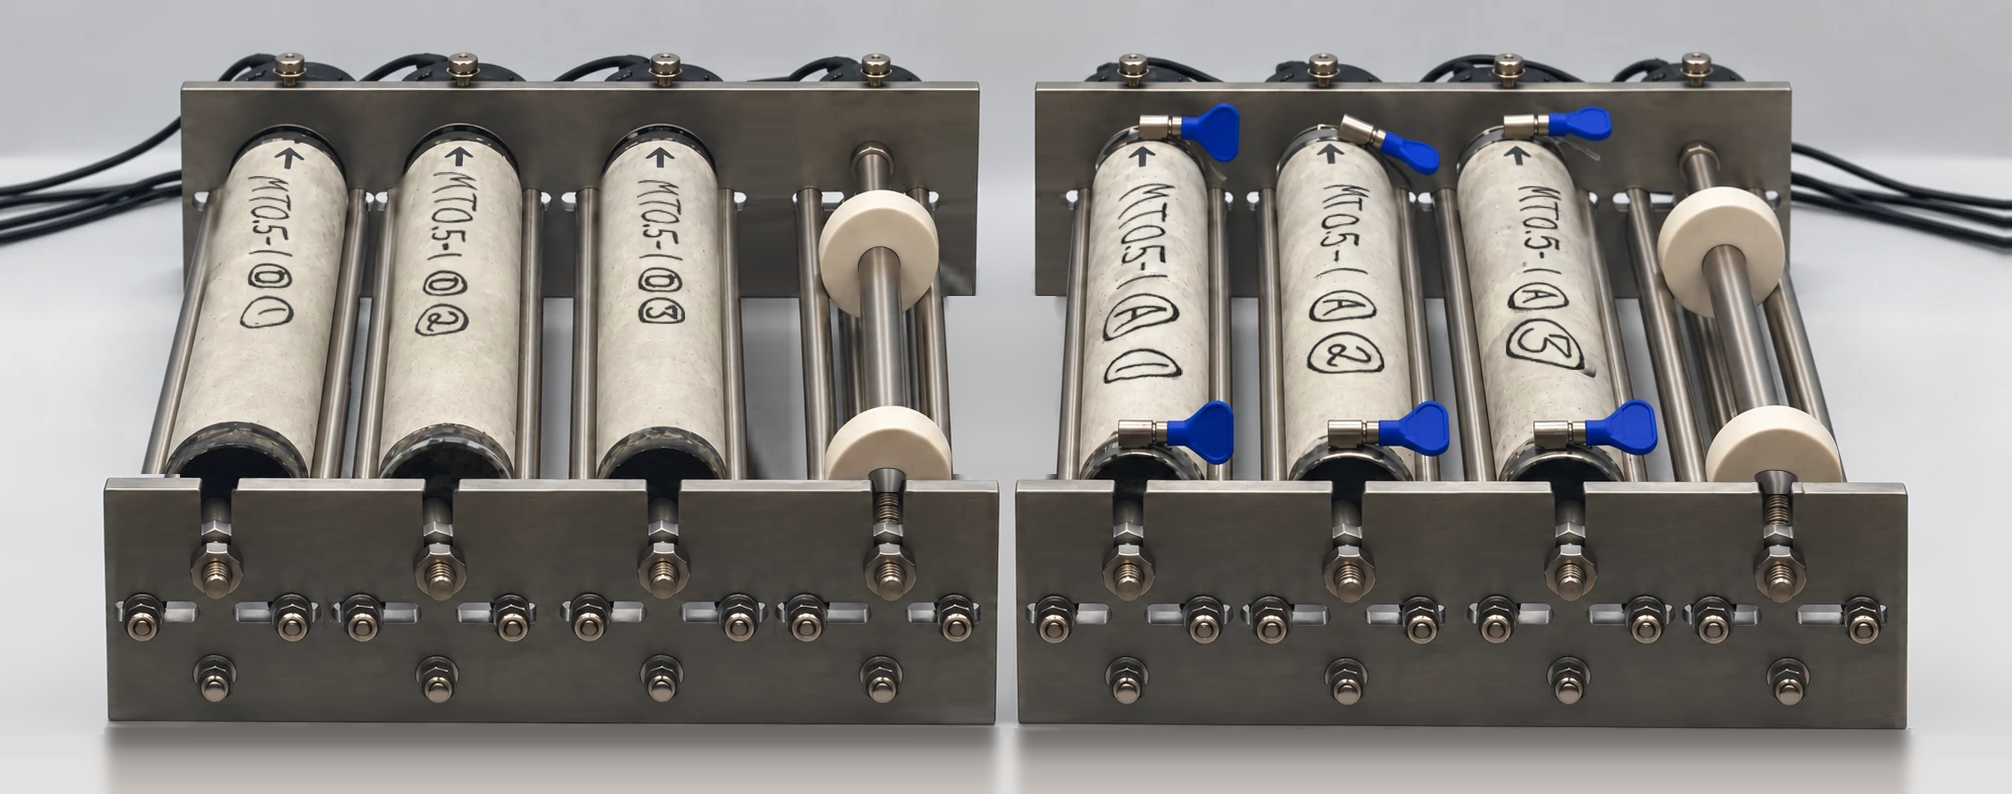
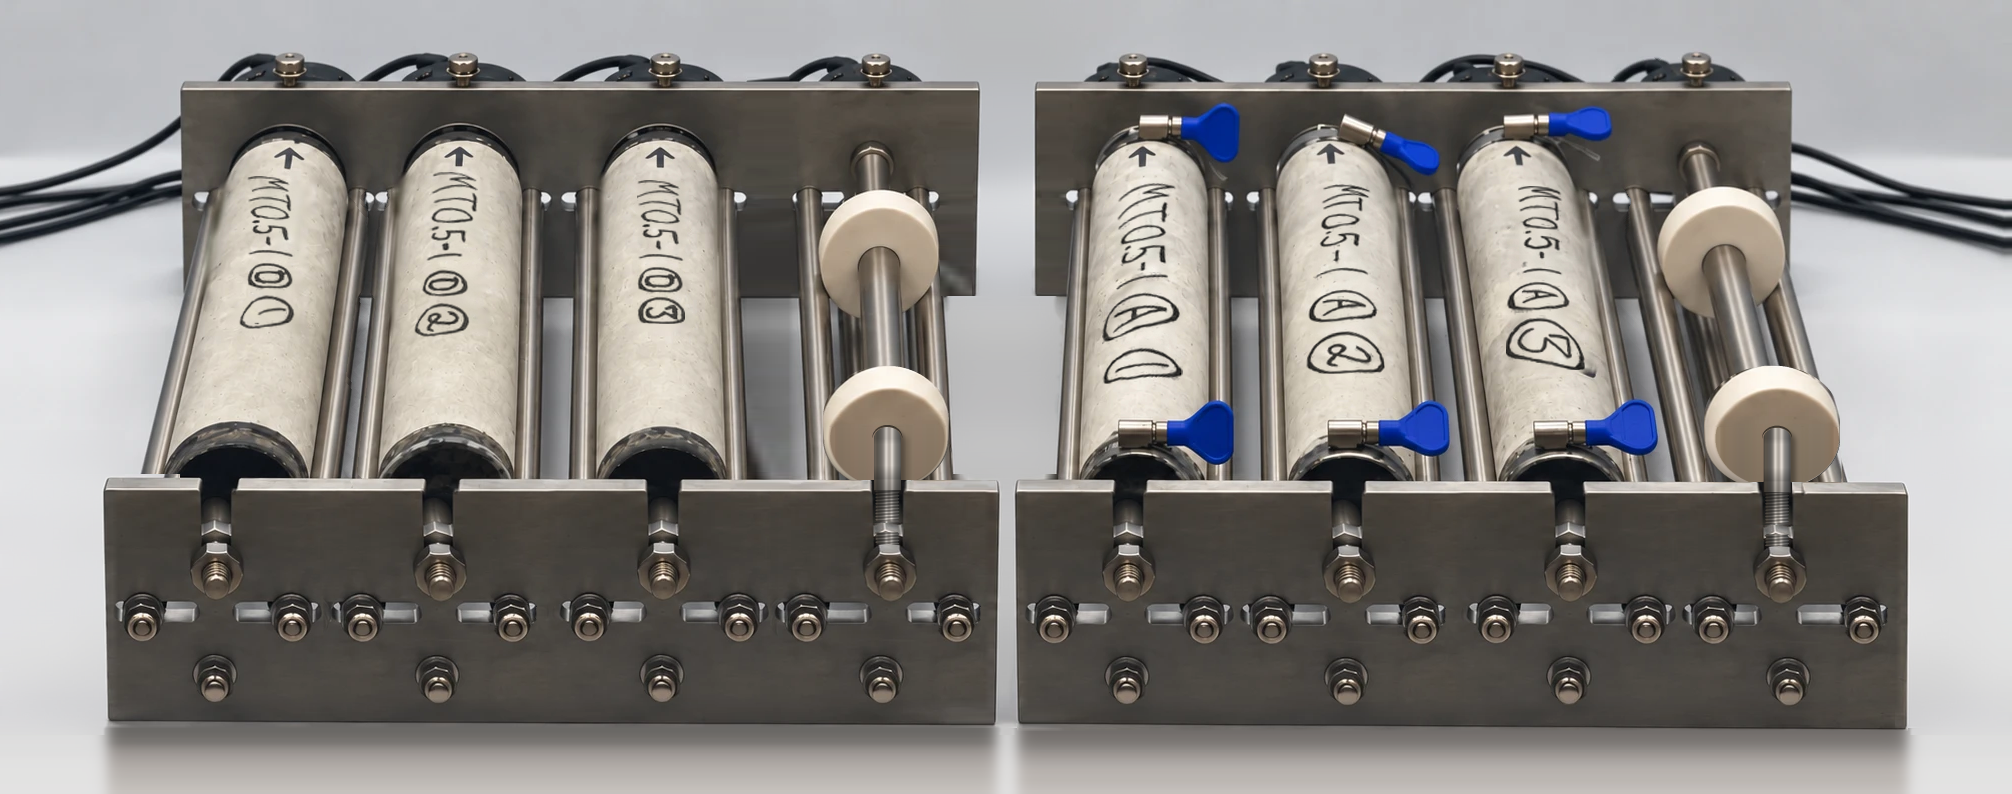
Spacer bay: closer to the rig photos
Roller lifted off the plate so the invar rod is seen coming straight out of
its bore, at constant width, across the plate-top bevel into a threaded stud
(helical threads on the rod's own shading) through the notch, the hex nut,
more thread, and the lock nut. Replaces the tapered cone.

Claude-Session: https://claude.ai/code/session_017fwkAQjt5JYwLzDNEhCw96

Changed region(s): [[0.832, 0.4534, 0.9245, 0.6952], [0.4006, 0.4534, 0.493, 0.6952]]

diff --git a/figures/invar7.py b/figures/invar7.py
@@ -1,0 +1,90 @@
+"""Spacer bay (bay 4, both frames), modelled on the original photos of the rig: the
+invar rod comes straight out of the roller, crosses the plate-top bevel at full width,
+and continues as a threaded stud through the notch, through the hex nut and on to the
+lock nut with its protruding threaded end (threads also show between the two nuts).
+
+Builds on invar4 (hardware centred on the rod axis, rod under the roller). Threads are
+rendered as a helix on the rod's own measured shading profile (fine pitch, slanted
+crests, serrated silhouette), matching the threaded end of the figure's lock nuts."""
+import sys, numpy as np, cv2
+from PIL import Image
+import invar4, invar3
+from invar3 import FRAMES, axis, cover, rod_profile, sample_prof
+
+WR=27.0        # rod width where it leaves the roller / crosses the bevel
+WT=24.0        # thread major diameter
+PITCH=3.2
+SLANT=0.9      # helix: crest rises this many px across the half-width
+GAP=[(532,544),(534,546)]          # rows between the hex nut and the lock nut, per frame
+
+def thread_rgb(prof,X,Y,xc,w,light):
+    u=(X-xc)/(w/2)
+    base=sample_prof(prof,(u+1)/2)
+    ph=(Y+SLANT*u)/PITCH
+    t=0.5+0.5*np.cos(2*np.pi*ph)                    # 1 on a crest
+    crest=np.exp(-((1-t)/0.25)**2)
+    col=base*(0.66+0.30*t)[...,None]+25*crest[...,None]*np.clip(base.mean(-1,keepdims=True)/200,0,1)
+    hw=w/2-1.3*(1-t)                                # serrated silhouette
+    return np.clip(col*light,0,255),hw
+
+def build(img,lift=None):
+    if lift:
+        # roller lifted up its rod (invar3), rod drawn straight at WR (no cone)
+        invar3.S=lift; invar3.WT_CONE=WR; invar3.W_ROD=WR; invar3.CENTER_HOLE=True
+        saved=[F['w'] for F in FRAMES]
+        prof_img=img.astype(np.float32)
+        a=invar3.build(img).astype(np.float32)
+    else:
+        a=invar4.build(img).astype(np.float32)
+    out=a.copy()
+    base=img.astype(np.float32)
+    for F,(g0,g1) in zip(FRAMES,GAP):
+        P=F['P']; xa=axis(F,P); w=F['w']; yb=P+12; yh=F['yh']
+        prof=rod_profile(base,F)
+        if lift:
+            apex=P-1.0; ah=0.0
+        else:
+            apex=P-12.0; ah=9.0
+        y0,y1=int(apex)-2,g1+1
+        x0,x1=int(xa-w/2-3),int(xa+w/2+4)
+        Y,X=np.mgrid[y0:y1,x0:x1].astype(np.float32)
+        reg=out[y0:y1,x0:x1]
+        cx=(lambda y: np.zeros_like(y)+xa) if lift else (lambda y: np.where(y<P,axis(F,np.minimum(y,P)),xa))
+        arch=lambda x,y,hw: y>=apex+ah*(1-np.sqrt(np.clip(1-((x-cx(y))/hw)**2,0,1)))
+        # clear invar4's wider rod under the roller (gap in shade), keep the bore arch
+        old=cover(lambda x,y:(np.abs(x-cx(y))<=w/2+0.5)&arch(x,y,w/2+0.5)&(y<P),X,Y)
+        shadow=np.array([38,35,33],np.float32)
+        if lift: pass
+        else:
+            reg[:]=reg*(1-old[...,None])+shadow*old[...,None]
+        # notch opening in the bevel rows: dark (the copied bay-3 notch shows that bay's rod)
+        nd=cover(lambda x,y:(np.abs(x-xa)<=15.0)&(y>=P)&(y<yb+2),X,Y)
+        dark=np.array([24,23,23],np.float32)
+        reg[:]=reg*(1-nd[...,None])+dark*nd[...,None]
+        # straight rod from the bore across the bevel
+        rc=cover(lambda x,y:(np.abs(x-cx(y))<=WR/2)&arch(x,y,WR/2)&(y<yb-2),X,Y)
+        col=sample_prof(prof,(X-cx(Y))/WR+0.5)*(0.80-0.12*np.clip((Y-apex)/(yb-apex),0,1))[...,None]
+        reg[:]=reg*(1-rc[...,None])+col*rc[...,None]
+        # short chamfer, then the threaded stud down to the hex nut, and between the nuts
+        light=(0.55+0.40*np.clip((Y-yb)/(yh-yb),0,1))[...,None]
+        light=np.where((Y>=g0)[...,None],0.80,light)
+        trgb,hw=thread_rgb(prof,X,Y,xa,WT,light)
+        cham=np.clip((Y-(yb-2))/2,0,1)
+        hwc=WR/2*(1-cham)+hw*cham
+        tc=cover(lambda x,y:(np.abs(x-xa)<=(WR/2*(1-np.clip((y-(yb-2))/2,0,1))+
+                 (WT/2-1.3*(1-(0.5+0.5*np.cos(2*np.pi*(y+SLANT*(x-xa)/(WT/2))/PITCH))))*np.clip((y-(yb-2))/2,0,1)))
+                 &(y>=yb-2)&((y<yh)|((y>=g0)&(y<g1))),X,Y)
+        reg[:]=reg*(1-tc[...,None])+trgb*tc[...,None]
+    if lift:
+        # faint vertical seam on the left roller face (left over from the AI image's notch
+        # edge, now moved up with the roller): interpolate across it
+        for y in range(400,481):
+            l,r=out[y,906],out[y,912]
+            for i,x in enumerate(range(907,912)):
+                t=(i+1)/6
+                if abs(out[y,x].mean()-(l.mean()*(1-t)+r.mean()*t))<20: out[y,x]=l*(1-t)+r*t
+    return np.clip(out,0,255).astype(np.uint8)
+
+if __name__=='__main__':
+    lift=int(sys.argv[3]) if len(sys.argv)>3 else None
+    Image.fromarray(build(np.array(Image.open(sys.argv[1]).convert('RGB')),lift)).save(sys.argv[2])

diff --git a/figures/invar3.py b/figures/invar3.py
@@ -80,7 +80,7 @@ def build(img):
             xi=xs.astype(int)
             out[y,xi]=out[y,xi]*(1-fx)+srow*fx
         # ---- 3. roller moved up the rod, lower face drawn, uncovered area filled
-        dx=-k*S
+        dx=(xa-F['xf']) if globals().get('CENTER_HOLE') else -k*S
         x0,x1=int(F['xs']-F['as_']-14),int(F['xs']+F['as_']+14)
         y0,y1=int(F['yb']-F['bs']-S-6),P
         Y,X=np.mgrid[y0:y1,x0:x1].astype(np.float32)
@@ -126,13 +126,14 @@ def build(img):
         rollerpix=rollerpix*(1-0.30*(e*fade)[...,None])
         reg[:]=reg*(1-cov[...,None])+rollerpix*cov[...,None]
         # ---- 4. rod from the face centre, cone into the notch
-        prof=rod_profile(a,F); w=F['w']
+        prof=rod_profile(a,F); w=globals().get('W_ROD',F['w'])
         # spacer width in the notch (from bay 3): measure lit spacer just above the coupling
-        wt=26.0
+        wt=globals().get('WT_CONE',26.0)
         yfn=F['yf']-S
         hb=w/2*F['bf']/F['af']
         yc0,yc1=P-15,P
         def cx(y):
+            if globals().get('CENTER_HOLE'): return np.zeros_like(y)+xa
             return axis(F,y)
         def width(y):
             t=np.clip((y-yc0)/(yc1-yc0),0,1); t=t*t*(3-2*t)
@@ -150,7 +151,7 @@ def build(img):
         t=np.clip((Y-yc0)/(yc1-yc0),0,1)
         sh=sh*(1-0.30*t)                                # cone faces down/away: darker
         col=col*sh[...,None]
-        col=col*(1-0.22*np.exp(-((Y-yc0)/1.3)**2))[...,None]   # edge where the taper starts
+        if wt!=w: col=col*(1-0.22*np.exp(-((Y-yc0)/1.3)**2))[...,None]   # edge where the taper starts
         reg[:]=reg*(1-rc[...,None])+col*rc[...,None]
         ac=cover(lambda x,y: (np.abs((x-cx(y))/(w/2+1.5))<=1)&
                  (np.abs(y-(yfn-(hb+1.2)*np.sqrt(np.clip(1-((x-cx(y))/(w/2+1.5))**2,0,1))))<=1.0)&(y<yfn),X,Y)

diff --git a/figures/edit_ai_figure.py b/figures/edit_ai_figure.py
@@ -8,14 +8,15 @@
   5. plates.py    - give all eight bays the same regularly placed plate hardware
   6. floor.py     - one continuous floor shadow under the plates
   7. bgclean.py   - smooth the studio background where columns were shifted
-  8. invar6.py    - spacer bay, as on the real rig: the invar rod tapers out of the roller
-                    into a threaded stud in the notch, then the hex nut and lock nut
+  8. invar7.py    - spacer bay, as in the rig photos: roller up off the plate, the invar rod
+                    straight out of its bore into a threaded stud through the notch, hex
+                    nut, threads, lock nut
 Needs opencv-contrib-python (cv2.xphoto) for the label erase.
 Usage: python3 edit_ai_figure.py ai.webp D.jpg A.jpg out.png
 """
 import sys, os, tempfile, numpy as np
 from PIL import Image
-import relabel, fixbay4, respace, proportions, plates, floor, bgclean, invar6
+import relabel, fixbay4, respace, proportions, plates, floor, bgclean, invar7
 ai,d,a,out=sys.argv[1:5]
 tmp=os.path.join(tempfile.mkdtemp(),'relabeled.png')
 relabel.main(ai,d,a,tmp)
@@ -25,5 +26,5 @@ y=np.arange(img.shape[0])
 path=np.interp(y,[0,535,570,img.shape[0]],[805,805,768,768])-36-3
 img=respace.stretch_path(img,path,36)
 img=proportions.finish(img)
-img=invar6.build(bgclean.clean(floor.render(plates.build(img))))
+img=invar7.build(bgclean.clean(floor.render(plates.build(img))),lift=40)
 Image.fromarray(img).save(out)
